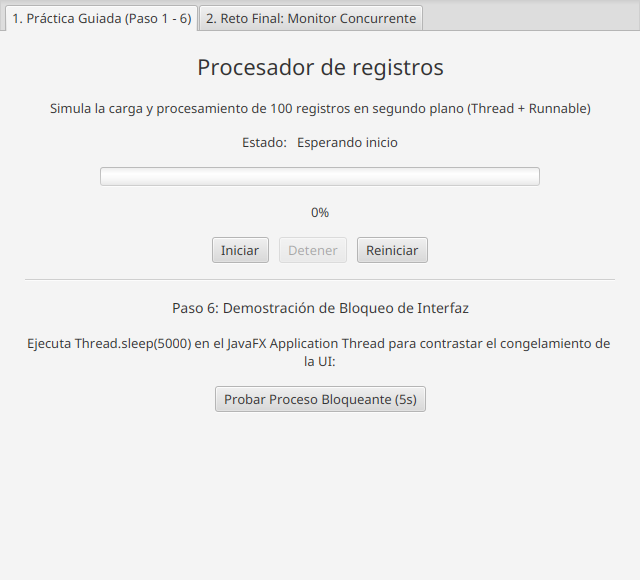
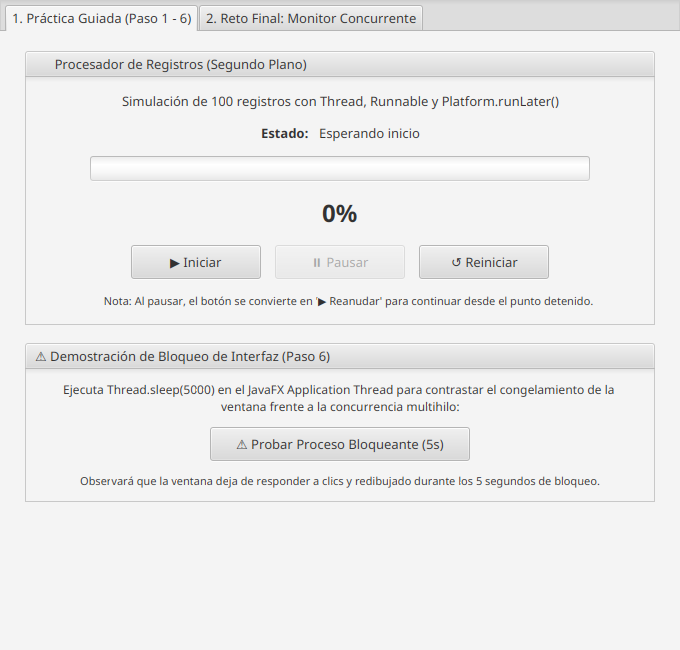
docs: actualizar capturas visuales y documentar mecanismo de reanudacion en README

diff --git a/src/test/java/ni/edu/uam/practicahilos/GeneradorCapturas.java b/src/test/java/ni/edu/uam/practicahilos/GeneradorCapturas.java
@@ -46,20 +46,24 @@ public class GeneradorCapturas extends Application {
             lblPorcentaje.setText("46%");
             btnIniciar.setDisable(true);
             btnDetener.setDisable(false);
+            btnDetener.setText("⏸ Pausar");
             btnReiniciar.setDisable(true);
 
             Platform.runLater(() -> {
                 saveNode(scene.getRoot(), new File(outDir, "02_practica_guiada_progreso.png"));
 
-                // Captura 3: Detención controlada
-                lblEstado.setText("Proceso detenido (interrupt)");
+                // Captura 3: Proceso Pausado / Reanudable (el botón se convierte en "▶ Reanudar")
+                lblEstado.setText("Proceso pausado (46% completado)");
                 barraProgreso.setProgress(0.46);
                 lblPorcentaje.setText("46%");
-                btnIniciar.setDisable(false);
-                btnDetener.setDisable(true);
+                btnIniciar.setDisable(true);
+                btnDetener.setDisable(false);
+                btnDetener.setText("▶ Reanudar");
                 btnReiniciar.setDisable(false);
 
                 Platform.runLater(() -> {
+                    saveNode(scene.getRoot(), new File(outDir, "03_practica_guiada_pausado_reanudable.png"));
+                    // Mantener compatibilidad con nombre previo
                     saveNode(scene.getRoot(), new File(outDir, "03_practica_guiada_detenido.png"));
 
                     // Captura 4: Proceso completado al 100%
@@ -68,6 +72,7 @@ public class GeneradorCapturas extends Application {
                     lblPorcentaje.setText("100%");
                     btnIniciar.setDisable(false);
                     btnDetener.setDisable(true);
+                    btnDetener.setText("⏸ Pausar");
                     btnReiniciar.setDisable(false);
 
                     Platform.runLater(() -> {
@@ -100,15 +105,17 @@ public class GeneradorCapturas extends Application {
                             lblDetalleClientes.setText("68 / 100 procesados");
                             btnIniciarClientes.setDisable(true);
                             btnDetenerClientes.setDisable(false);
+                            btnDetenerClientes.setText("⏸ Pausar Clientes");
 
-                            lblEstadoProductos.setText("Procesando productos...");
+                            lblEstadoProductos.setText("Pausado en 22/50");
                             barraProgresoProductos.setProgress(0.44);
                             lblPorcentajeProductos.setText("44%");
                             lblDetalleProductos.setText("22 / 50 procesados");
                             btnIniciarProductos.setDisable(true);
                             btnDetenerProductos.setDisable(false);
+                            btnDetenerProductos.setText("▶ Reanudar Productos");
 
-                            lblResumen.setText("Ejecutando concurrentemente: Clientes y Productos");
+                            lblResumen.setText("▶ Ejecutando Clientes | ⏸ Productos pausado");
 
                             Platform.runLater(() -> {
                                 saveNode(scene.getRoot(), new File(outDir, "05_reto_final_concurrente.png"));
@@ -120,6 +127,7 @@ public class GeneradorCapturas extends Application {
                                 lblDetalleClientes.setText("100 / 100 procesados");
                                 btnIniciarClientes.setDisable(false);
                                 btnDetenerClientes.setDisable(true);
+                                btnDetenerClientes.setText("⏸ Pausar Clientes");
 
                                 lblEstadoProductos.setText("Productos completados");
                                 barraProgresoProductos.setProgress(1.0);
@@ -127,6 +135,7 @@ public class GeneradorCapturas extends Application {
                                 lblDetalleProductos.setText("50 / 50 procesados");
                                 btnIniciarProductos.setDisable(false);
                                 btnDetenerProductos.setDisable(true);
+                                btnDetenerProductos.setText("⏸ Pausar Productos");
 
                                 lblResumen.setText("Todos los procesos han finalizado con éxito");
 

diff --git a/README.md b/README.md
@@ -18,7 +18,7 @@
 
 La empresa **NicaData Solutions S.A.** requiere un sistema de procesamiento de datos por lotes para simular la importación y validación de registros de clientes y productos. Debido al volumen de información, el procesamiento tarda varios segundos. Si la tarea se ejecuta en el hilo principal de la aplicación, la interfaz de usuario se congela por completo, impidiendo cualquier interacción o visualización del progreso.
 
-Para solucionar este problema, se desarrolló una aplicación en **JavaFX 21** aplicando programación concurrente con la API estándar de hilos de Java (`Thread`, `Runnable`), coordinando las actualizaciones visuales mediante `Platform.runLater()` y garantizando un diseño limpio **sin uso de hojas de estilo CSS externas**.
+Para solucionar este problema, se desarrolló una aplicación en **JavaFX 21** aplicando programación concurrente con la API estándar de hilos de Java (`Thread`, `Runnable`), coordinando las actualizaciones visuales mediante `Platform.runLater()`, incorporando un mecanismo dinámico de **Pausa y Reanudación de progreso acumulado**, y garantizando un diseño limpio y vistoso **sin uso de hojas de estilo CSS externas**.
 
 ---
 
@@ -50,6 +50,7 @@ PracticaHilos/
 │   └── img/                                          # Capturas de pantalla y evidencias
 │       ├── 01_practica_guiada_inicio.png
 │       ├── 02_practica_guiada_progreso.png
+│       ├── 03_practica_guiada_pausado_reanudable.png
 │       ├── 03_practica_guiada_detenido.png
 │       ├── 04_practica_guiada_finalizado.png
 │       ├── 05_reto_final_concurrente.png
@@ -60,10 +61,10 @@ PracticaHilos/
     │   │   ├── module-info.java                      # Descriptor modular JPMS
     │   │   └── ni/edu/uam/practicahilos/
     │   │       ├── MainApp.java                      # Clase principal y configuración de Stage
-    │   │       └── ProcesadorController.java         # Controlador y gestión concurrente de hilos
+    │   │       └── ProcesadorController.java         # Controlador y gestión concurrente con pausa/reanudación
     │   └── resources/
     │       └── ni/edu/uam/practicahilos/
-    │           └── procesador-view.fxml              # Interfaz gráfica FXML nativa (sin CSS)
+    │           └── procesador-view.fxml              # Interfaz gráfica FXML nativa vistosa (sin CSS)
     └── test/
         └── java/
             └── ni/edu/uam/practicahilos/
@@ -72,31 +73,29 @@ PracticaHilos/
 
 ---
 
-## 5. Explicación de los Hilos Implementados
+## 5. Explicación de los Hilos y Mecanismo de Pausa/Reanudación
 
-### 5.1 Hilo de la Práctica Guiada (`hiloProceso`)
-* **Propósito:** Procesar 100 registros en segundo plano.
-* **Ciclo de vida:**
-  1. **Inicio:** Se valida `hiloProceso.isAlive()` para evitar ejecuciones concurrentes duplicadas. Se restablecen las variables visuales y se deshabilitan los botones correspondientes.
-  2. **Ejecución:** Cada iteración duerme 100 ms (`Thread.sleep(100)`). En cada ciclo se verifica `Thread.currentThread().isInterrupted()`.
-  3. **Sincronización:** Cada avance se envía al JavaFX Application Thread mediante `Platform.runLater(() -> barraProgreso.setProgress(avance / 100.0))`.
-  4. **Detención controlada:** El método `detenerProceso()` invoca `hiloProceso.interrupt()`. Al capturar `InterruptedException`, el hilo restaura su estado de interrupción y actualiza el estado a *"Proceso detenido"*.
-  5. **Cierre seguro:** Mediante `stage.setOnCloseRequest`, si el hilo sigue vivo al cerrar la ventana, se solicita su interrupción inmediata para evitar fugas de memoria o procesos huérfanos.
+### 5.1 Hilo de la Práctica Guiada con Botón Conmutable (Pausar / Reanudar)
+* **Propósito:** Procesar 100 registros en segundo plano con posibilidad de pausar y continuar desde el punto detenido.
+* **Ciclo de vida y máquina de estados:**
+  1. **Inicio:** Al presionar `▶ Iniciar`, el hilo comienza desde el progreso acumulado (`progresoActual + 1`). El botón de detención se habilita mostrando `⏸ Pausar`.
+  2. **Ejecución:** Cada iteración avanza un registro durmiendo 100 ms (`Thread.sleep(100)`). El progreso se despacha a la barra y porcentaje mediante `Platform.runLater()`.
+  3. **Pausa dinámica (Conversión en Reanudar):** Al presionar `⏸ Pausar`, se envía `hiloProceso.interrupt()`. Al capturar `InterruptedException`, el hilo se detiene de forma limpia, preserva el valor de `progresoActual`, y el botón **se transforma automáticamente en `▶ Reanudar`**.
+  4. **Reanudación:** Al presionar `▶ Reanudar`, se instancia un nuevo hilo secundario que retoma el ciclo a partir de `progresoActual + 1` hasta `100`, sin reiniciar la barra a cero y cambiando nuevamente el botón a `⏸ Pausar`.
+  5. **Reinicio completo:** El botón `↺ Reiniciar` restablece `progresoActual = 0`, la barra a `0%`, el estado a *"Esperando inicio"* y restaura los botones.
+  6. **Cierre seguro:** Si la ventana se cierra con un hilo en ejecución, `stage.setOnCloseRequest` asegura la interrupción inmediata para evitar procesos huérfanos.
 
 ### 5.2 Hilos Concurrentes del Reto Final (`hiloClientes` y `hiloProductos`)
 * **`hiloClientes`:**
-  * Procesa **100 registros**.
-  * Latencia de simulación: **80 ms** por registro (~8 segundos en total).
-  * Barra de progreso y contadores individuales independientes.
+  * Procesa **100 registros** a **80 ms** por registro (~8 segundos en total).
+  * Soporta pausa y reanudación individual con el botón conmutable `⏸ Pausar Clientes` / `▶ Reanudar Clientes`.
 * **`hiloProductos`:**
-  * Procesa **50 registros**.
-  * Latencia de simulación: **150 ms** por registro (~7.5 segundos en total, avanzando a saltos porcentuales del 2%).
-  * Barra de progreso y contadores individuales independientes.
-* **Concurrencia real:**
-  Ambos hilos se ejecutan simultáneamente en núcleos del CPU independientes sin interferir entre sí ni degradar la fluidez de la ventana gráfica. Pueden ser iniciados, detenidos y reiniciados tanto individualmente como de manera sincronizada mediante los botones maestros:
-  * `btnIniciarAmbos`
-  * `btnDetenerAmbos`
-  * `btnReiniciarAmbos`
+  * Procesa **50 registros** a **150 ms** por registro (~7.5 segundos en total, avanzando a saltos porcentuales del 2%).
+  * Soporta pausa y reanudación individual con el botón conmutable `⏸ Pausar Productos` / `▶ Reanudar Productos`.
+* **Panel de Control Maestro Simultáneo:**
+  * `▶ Iniciar / Reanudar Ambos`: Inicia o reanuda ambos procesos simultáneamente.
+  * `⏸ Pausar Ambos`: Pausa concurrentemente ambos hilos.
+  * `↺ Reiniciar Ambos`: Restablece contadores y barras a cero.
 
 ---
 
@@ -134,12 +133,14 @@ Cuando se invoca una operación costosa o un bloqueo como `Thread.sleep(5000)` d
 
 ---
 
-## 7. Diseño de Interfaz (Cumplimiento de Restricción Sin CSS)
+## 7. Diseño de Interfaz (Vistoso y Sin CSS)
 
-En cumplimiento estricto del requerimiento **"no uses css"**:
-* No se incluyeron archivos `.css` (`styles.css` u homólogos).
-* No se utilizaron atributos `styleClass` ni reglas `@stylesheets` en los archivos FXML.
-* Todo el diseño se estructuró mediante contenedores de diseño nativos de JavaFX (`TabPane`, `Tab`, `ScrollPane`, `VBox`, `HBox`, `Separator`) con tipografías y espaciados propios del motor gráfico (`<Font size="..."/>`, `spacing="10"`, `alignment="CENTER"`, `padding`), aprovechando el tema estándar **Modena** de JavaFX.
+En cumplimiento estricto del requerimiento **"no uses css"**, pero garantizando una presentación **atractiva y vistosa**:
+* No se incluyeron archivos `.css` ni atributos de estilo CSS en FXML.
+* Se estructuró la interfaz utilizando tarjetas agrupadas con componentes nativos `TitledPane` (`collapsible="false"`), proporcionando marcos visuales bien definidos con barras de título.
+* Se incorporaron iconos y emojis universales (`▶`, `⏸`, `↺`, `⚠`, `👥`, `📦`, `🚀`, `⚡`) que facilitan la comprensión visual de las acciones de inicio, pausa, reanudación y reinicio.
+* Se jerarquizó la tipografía mediante etiquetas nativas `<Font name="System Bold" size="24.0"/>` para porcentajes destacados y tamaños estandarizados en botones (`prefWidth="130"`, `prefHeight="34"`).
+* Se ampliaron las barras de progreso a `prefHeight="26.0"` y `prefWidth="500.0"`, permitiendo una visualización nítida y agradable.
 
 ---
 
@@ -153,8 +154,9 @@ En cumplimiento estricto del requerimiento **"no uses css"**:
 #### En Ejecución (Segundo Plano Activo y Ventana Receptiva)
 ![Práctica Guiada - En Progreso](docs/img/02_practica_guiada_progreso.png)
 
-#### Detención Controlada con `interrupt()`
-![Práctica Guiada - Detenido](docs/img/03_practica_guiada_detenido.png)
+#### Proceso Pausado (El botón se convierte en `▶ Reanudar`)
+*Al pausar el proceso, el hilo secundario se detiene cooperativamente, se conserva el 46% acumulado y el botón cambia automáticamente a `▶ Reanudar` para continuar sin perder el progreso.*
+![Práctica Guiada - Pausado y Reanudable](docs/img/03_practica_guiada_pausado_reanudable.png)
 
 #### Proceso Completado al 100%
 ![Práctica Guiada - Finalizado](docs/img/04_practica_guiada_finalizado.png)
@@ -163,8 +165,8 @@ En cumplimiento estricto del requerimiento **"no uses css"**:
 
 ### 8.2 Reto Final: Monitor Concurrente Empresarial
 
-#### Procesamiento Concurrente Simultáneo (Clientes y Productos)
-*Se aprecian ambas barras de progreso independientes avanzando a velocidades distintas (Clientes a 80 ms/reg y Productos a 150 ms/reg) con contadores individuales en tiempo real.*
+#### Procesamiento Concurrente Simultáneo (Clientes y Productos) con Pausa Independiente
+*Se aprecia a Clientes en ejecución activa al 68% mientras Productos se encuentra pausado en 22/50 con su botón transformado en `▶ Reanudar Productos`.*
 ![Reto Final - Concurrente](docs/img/05_reto_final_concurrente.png)
 
 #### Ambos Procesos Completados al 100%
